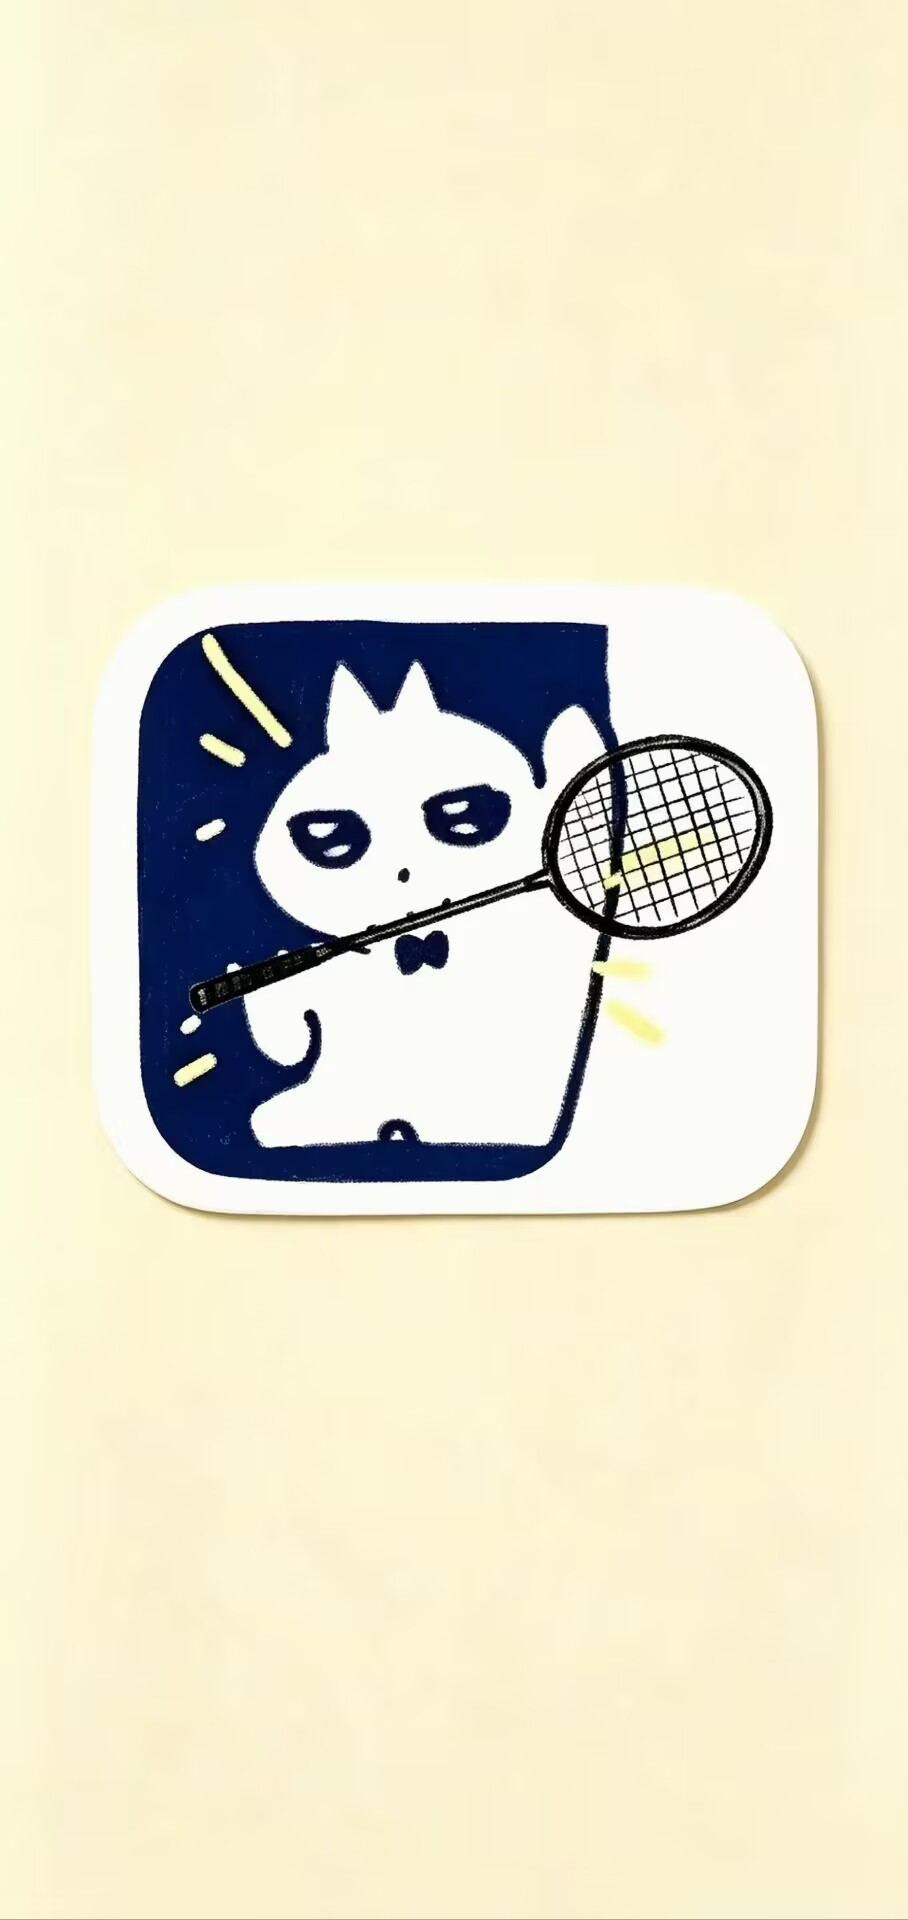
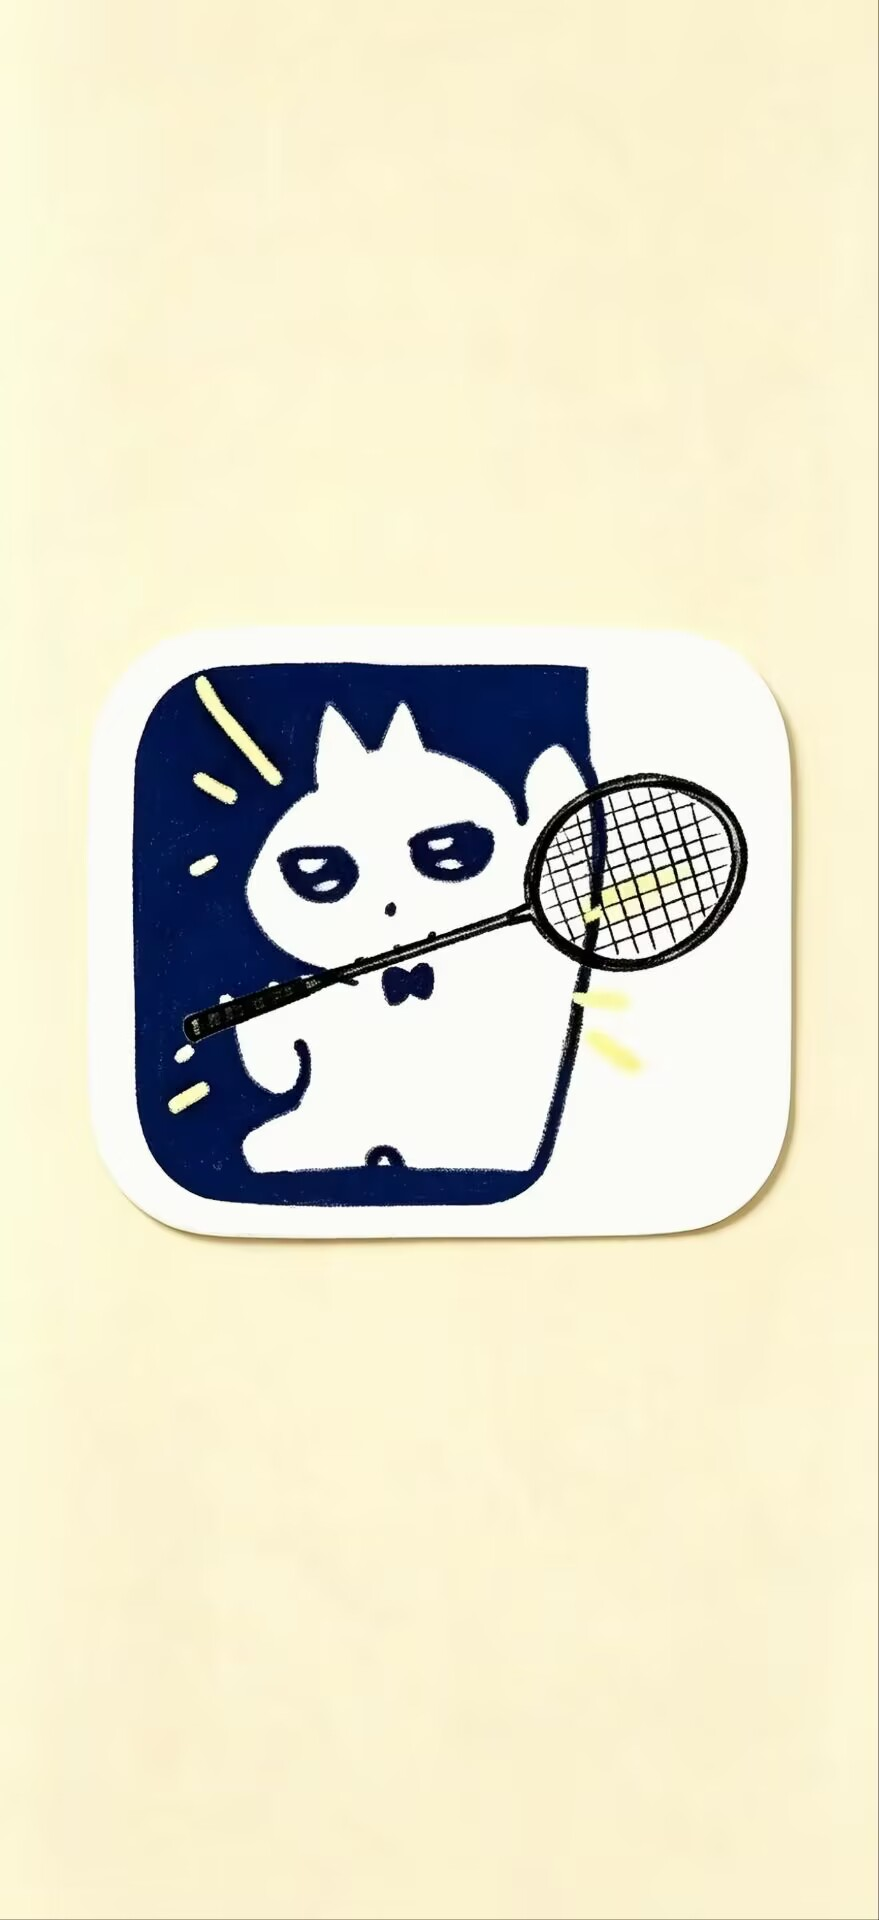
【修改说明】羽毛球主题

Changed region(s): [[0.0922, 0.2812, 0.9215, 0.6562]]

diff --git a/app/first.tsx b/app/first.tsx
@@ -19,7 +19,7 @@ export default function First() {
             return {
                 content: (
                     <p style={{ margin: 0 }}>
-                        这里什么也没有，看到你我就大脑一片空白
+                        这里什么也没有，看到你就大脑一片空白
                     </p>
                 ),
                 btnText: '再看看',
@@ -79,15 +79,16 @@ export default function First() {
     return (
         <div className={`handmadePage ${bgClassList[colorIndex]}`}>
             <div className="hdmtTitleConatiner">
-                <div className="hdmtTitle">一觉醒来，全球人类羽毛球水平下降1000倍</div>
-                <div className='hdmtTitleSec'>系统提示：恭喜宿主成功解锁双人羽毛球剧本</div>
+                <div className="hdmtTitle">一觉醒来，全球人类羽毛球水平下降1000倍?</div>
+                <div className='hdmtTitleSec'>系统提示：恭喜宿主解锁羽毛球陪打主线任务</div>
+                <div className='hdmtTitleSec'>任务目标：精准喂球、遗憾落败</div>
             </div>
             <div className="hdmtWelcomeContainer">
                 <div className='hdmtWelcomeText'>· 今天也要玩得开心哦 ·</div>
                 <div className="hdmtWelcomeTip">不开心你直接揍下面这个人一顿</div>
                 <div className="hdmtImg" onClick={openModal} />
                 <div className="hdmtWelcomeGuide" >⬆可以戳⬆</div>
-                <div className="hdmtWelcomeBtn">剧本很长，想拉你慢慢演</div>
+                <div className="hdmtWelcomeBtn">一局终了，还有无数回合可期</div>
             </div>
             {/* 弹窗遮罩层 */}
             {showModal && (

diff --git a/app/styles/first.css b/app/styles/first.css
@@ -29,7 +29,10 @@
         }
 
         .hdmtTitleSec {
+            margin-top: 0.5rem;
+            width: 90%;
             color: gray;
+            text-align: center;
         }
     }
 
